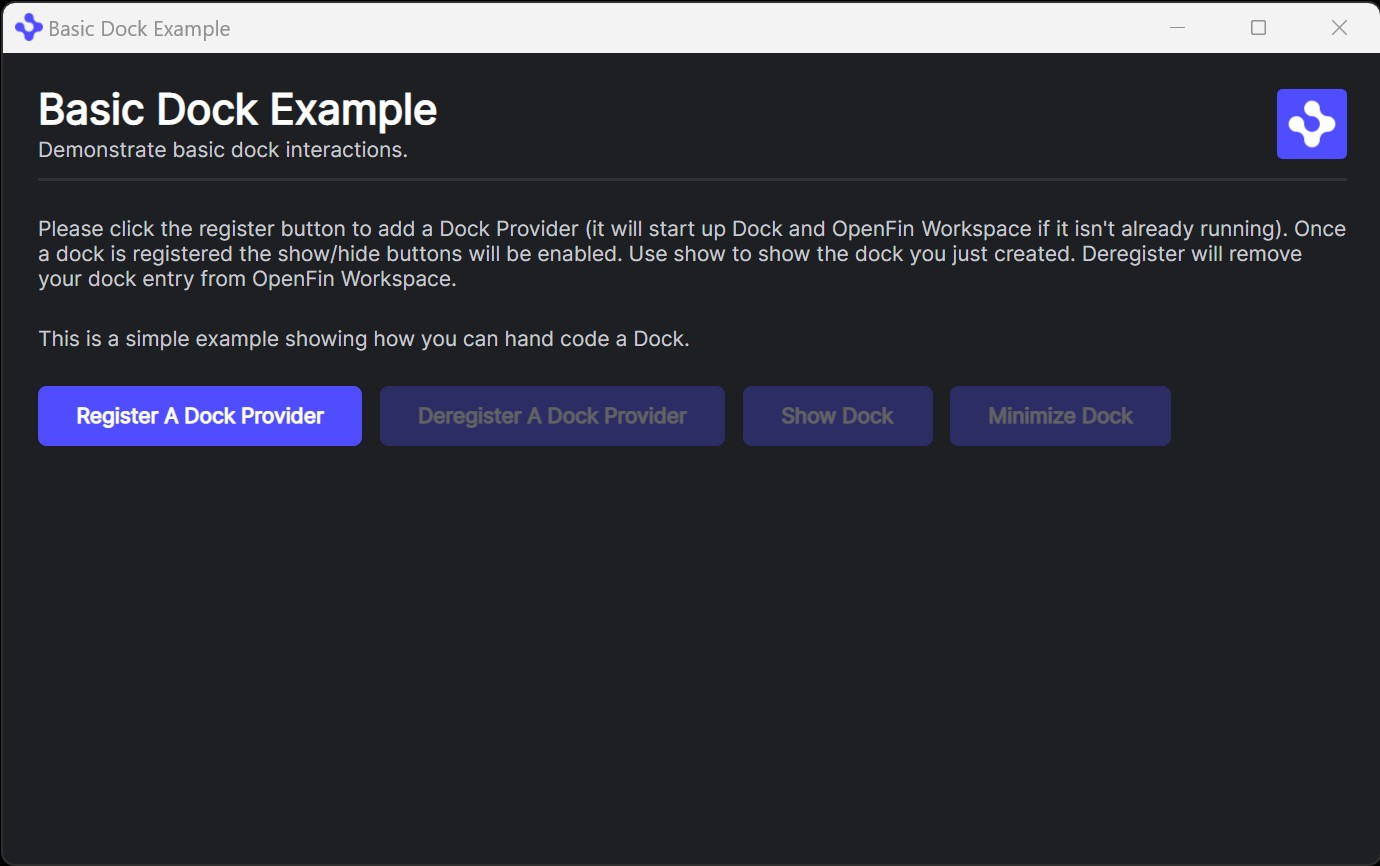
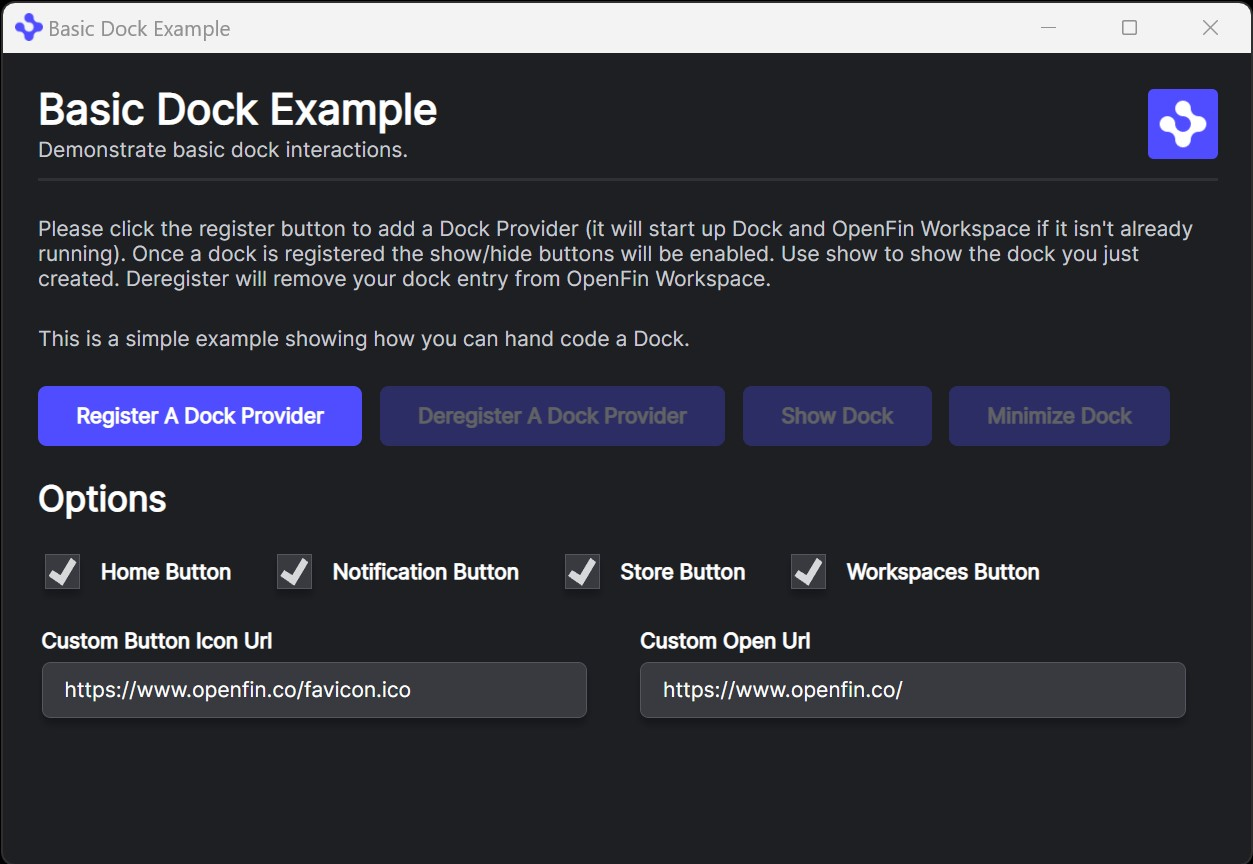
Add custom options

diff --git a/how-to/register-with-dock-basic/client/src/provider.ts b/how-to/register-with-dock-basic/client/src/provider.ts
@@ -1,12 +1,24 @@
 import OpenFin from "@openfin/core";
 import {
 	CustomActionPayload,
+	CustomButtonActionPayload,
 	CustomDropdownItemActionPayload,
 	getCurrentSync,
 	init as workspacePlatformInit,
 	WorkspacePlatformModule
 } from "@openfin/workspace-platform";
 import { register, deregister, show, minimize } from "./dock";
+
+let registerDock;
+let showDock;
+let minimizeDock;
+let deregisterDock;
+let showHomeButton;
+let showNotificationButton;
+let showStorefrontButton;
+let showWorkspacesButton;
+let customIconUrl;
+let customOpenUrl;
 
 async function init() {
 	await workspacePlatformInit({
@@ -18,6 +30,9 @@ async function init() {
 			"launch-bing": async (payload: CustomActionPayload) => {
 				await launchView("https://www.bing.com");
 			},
+			"launch-custom": async (payload: CustomButtonActionPayload) => {
+				await launchView(payload.customData as string);
+			},
 			"launch-tools": async (payload: CustomDropdownItemActionPayload) => {
 				if (payload.customData === "twitter") {
 					await launchView("https://www.twitter.com");
@@ -28,29 +43,33 @@ async function init() {
 		}
 	});
 
-	const registerDock = document.querySelector<HTMLButtonElement>("#register");
-	const showDock = document.querySelector<HTMLButtonElement>("#show");
-	const minimizeDock = document.querySelector<HTMLButtonElement>("#minimize");
-	const deregisterDock = document.querySelector<HTMLButtonElement>("#deregister");
+	registerDock = document.querySelector<HTMLButtonElement>("#register");
+	showDock = document.querySelector<HTMLButtonElement>("#show");
+	minimizeDock = document.querySelector<HTMLButtonElement>("#minimize");
+	deregisterDock = document.querySelector<HTMLButtonElement>("#deregister");
+	showHomeButton = document.querySelector<HTMLInputElement>("#showHomeButton");
+	showNotificationButton = document.querySelector<HTMLInputElement>("#showNotificationButton");
+	showStorefrontButton = document.querySelector<HTMLInputElement>("#showStorefrontButton");
+	showWorkspacesButton = document.querySelector<HTMLInputElement>("#showWorkspacesButton");
+	customIconUrl = document.querySelector<HTMLInputElement>("#customIconUrl");
+	customOpenUrl = document.querySelector<HTMLInputElement>("#customOpenUrl");
 
-	showDock.disabled = true;
-	minimizeDock.disabled = true;
-	deregisterDock.disabled = true;
-	registerDock.disabled = false;
+	setStates(false);
 
 	registerDock.addEventListener("click", async () => {
-		await register();
-		showDock.disabled = false;
-		minimizeDock.disabled = false;
-		deregisterDock.disabled = false;
-		registerDock.disabled = true;
+		await register({
+			showHome: Boolean(showHomeButton.value),
+			showNotifications: Boolean(showNotificationButton.value),
+			showStorefront: Boolean(showStorefrontButton.value),
+			showWorkspaces: Boolean(showWorkspacesButton.value),
+			customIconUrl: customIconUrl.value,
+			customOpenUrl: customOpenUrl.value
+		});
+		setStates(true);
 	});
 
 	deregisterDock.addEventListener("click", async () => {
-		showDock.disabled = true;
-		minimizeDock.disabled = true;
-		deregisterDock.disabled = true;
-		registerDock.disabled = false;
+		setStates(false);
 		await deregister();
 	});
 
@@ -61,6 +80,19 @@ async function init() {
 	minimizeDock.addEventListener("click", async () => {
 		await minimize();
 	});
+}
+
+function setStates(isRegistered: boolean): void {
+	registerDock.disabled = isRegistered;
+	deregisterDock.disabled = !isRegistered;
+	showDock.disabled = !isRegistered;
+	minimizeDock.disabled = !isRegistered;
+	showHomeButton.disabled = isRegistered;
+	showNotificationButton.disabled = isRegistered;
+	showStorefrontButton.disabled = isRegistered;
+	showWorkspacesButton.disabled = isRegistered;
+	customIconUrl.disabled = isRegistered;
+	customOpenUrl.disabled = isRegistered;
 }
 
 export async function launchView(

diff --git a/how-to/register-with-dock-basic/public/platform/provider.html b/how-to/register-with-dock-basic/public/platform/provider.html
@@ -9,6 +9,7 @@
 		<link rel="stylesheet" href="/common/style/app.css" />
 		<script src="../js/provider.bundle.js"></script>
 	</head>
+
 	<body class="col fill gap20">
 		<header class="row spread middle">
 			<div class="col">
@@ -19,7 +20,7 @@
 				<image src="/common/images/icon-blue.png" alt="OpenFin" height="40px"></image>
 			</div>
 		</header>
-		<main class="col fill gap20">
+		<main class="col fill gap20 scroll-vertical">
 			<p>
 				Please click the register button to add a Dock Provider (it will start up Dock and OpenFin Workspace
 				if it isn't already running). Once a dock is registered the show/hide buttons will be enabled. Use
@@ -31,6 +32,37 @@
 				<button id="deregister">Deregister A Dock Provider</button>
 				<button id="show">Show Dock</button>
 				<button id="minimize">Minimize Dock</button>
+			</div>
+			<div class="col gap20">
+				<h2>Options</h2>
+				<div class="row wrap gap20">
+					<fieldset class="row">
+						<input type="checkbox" checked="true" id="showHomeButton" />
+						<label for="showHomeButton">Home Button</label>
+					</fieldset>
+					<fieldset class="row">
+						<input type="checkbox" checked="true" id="showNotificationButton" />
+						<label for="showNotificationButton">Notification Button</label>
+					</fieldset>
+					<fieldset class="row">
+						<input type="checkbox" checked="true" id="showStorefrontButton" />
+						<label for="showStorefrontButton">Store Button</label>
+					</fieldset>
+					<fieldset class="row">
+						<input type="checkbox" checked="true" id="showWorkspacesButton" />
+						<label for="showWorkspacesButton">Workspaces Button</label>
+					</fieldset>
+				</div>
+				<div class="row wrap gap10">
+					<fieldset class="fill">
+						<label for="customIconUrl">Custom Button Icon Url</label>
+						<input type="url" id="customIconUrl" class="full" value="https://www.openfin.co/favicon.ico" />
+					</fieldset>
+					<fieldset class="fill">
+						<label for="customOpenUrl">Custom Open Url</label>
+						<input type="url" id="customOpenUrl" class="full" value="https://www.openfin.co/" />
+					</fieldset>
+				</div>
 			</div>
 		</main>
 	</body>

diff --git a/how-to/register-with-dock-basic/client/src/dock.ts b/how-to/register-with-dock-basic/client/src/dock.ts
@@ -2,9 +2,16 @@ import { Dock, DockButtonNames, DockProvider } from "@openfin/workspace";
 
 const providerId = "register-with-dock-basic";
 
-export async function register() {
+export async function register(options: {
+	showHome: boolean;
+	showNotifications: boolean;
+	showStorefront: boolean;
+	showWorkspaces: boolean;
+	customIconUrl: string;
+	customOpenUrl: string;
+}) {
 	console.log("Initialising the dock provider.");
-	const provider = await getDockProvider();
+	const provider = await getDockProvider(options);
 	try {
 		await Dock.register(provider);
 		console.log("Dock provider initialised.");
@@ -27,7 +34,14 @@ export async function minimize() {
 	return Dock.minimize();
 }
 
-async function getDockProvider(): Promise<DockProvider> {
+async function getDockProvider(options: {
+	showHome: boolean;
+	showNotifications: boolean;
+	showStorefront: boolean;
+	showWorkspaces: boolean;
+	customIconUrl: string;
+	customOpenUrl: string;
+}): Promise<DockProvider> {
 	console.log("Getting the dock provider.");
 
 	const webRoot = window.location.href.replace("platform/provider.html", "");
@@ -37,10 +51,10 @@ async function getDockProvider(): Promise<DockProvider> {
 		title: "Basic Dock",
 		icon: `${webRoot}favicon.ico`,
 		workspaceComponents: {
-			hideHomeButton: false,
-			hideNotificationsButton: false,
-			hideStorefrontButton: false,
-			hideWorkspacesButton: false
+			hideHomeButton: !options.showHome,
+			hideNotificationsButton: !options.showNotifications,
+			hideStorefrontButton: !options.showStorefront,
+			hideWorkspacesButton: !options.showWorkspaces
 		},
 		buttons: [
 			{
@@ -55,6 +69,14 @@ async function getDockProvider(): Promise<DockProvider> {
 				iconUrl: "https://www.bing.com/favicon.ico",
 				action: {
 					id: "launch-bing"
+				}
+			},
+			{
+				tooltip: "Custom",
+				iconUrl: options.customIconUrl,
+				action: {
+					id: "launch-custom",
+					customData: options.customOpenUrl
 				}
 			},
 			{
